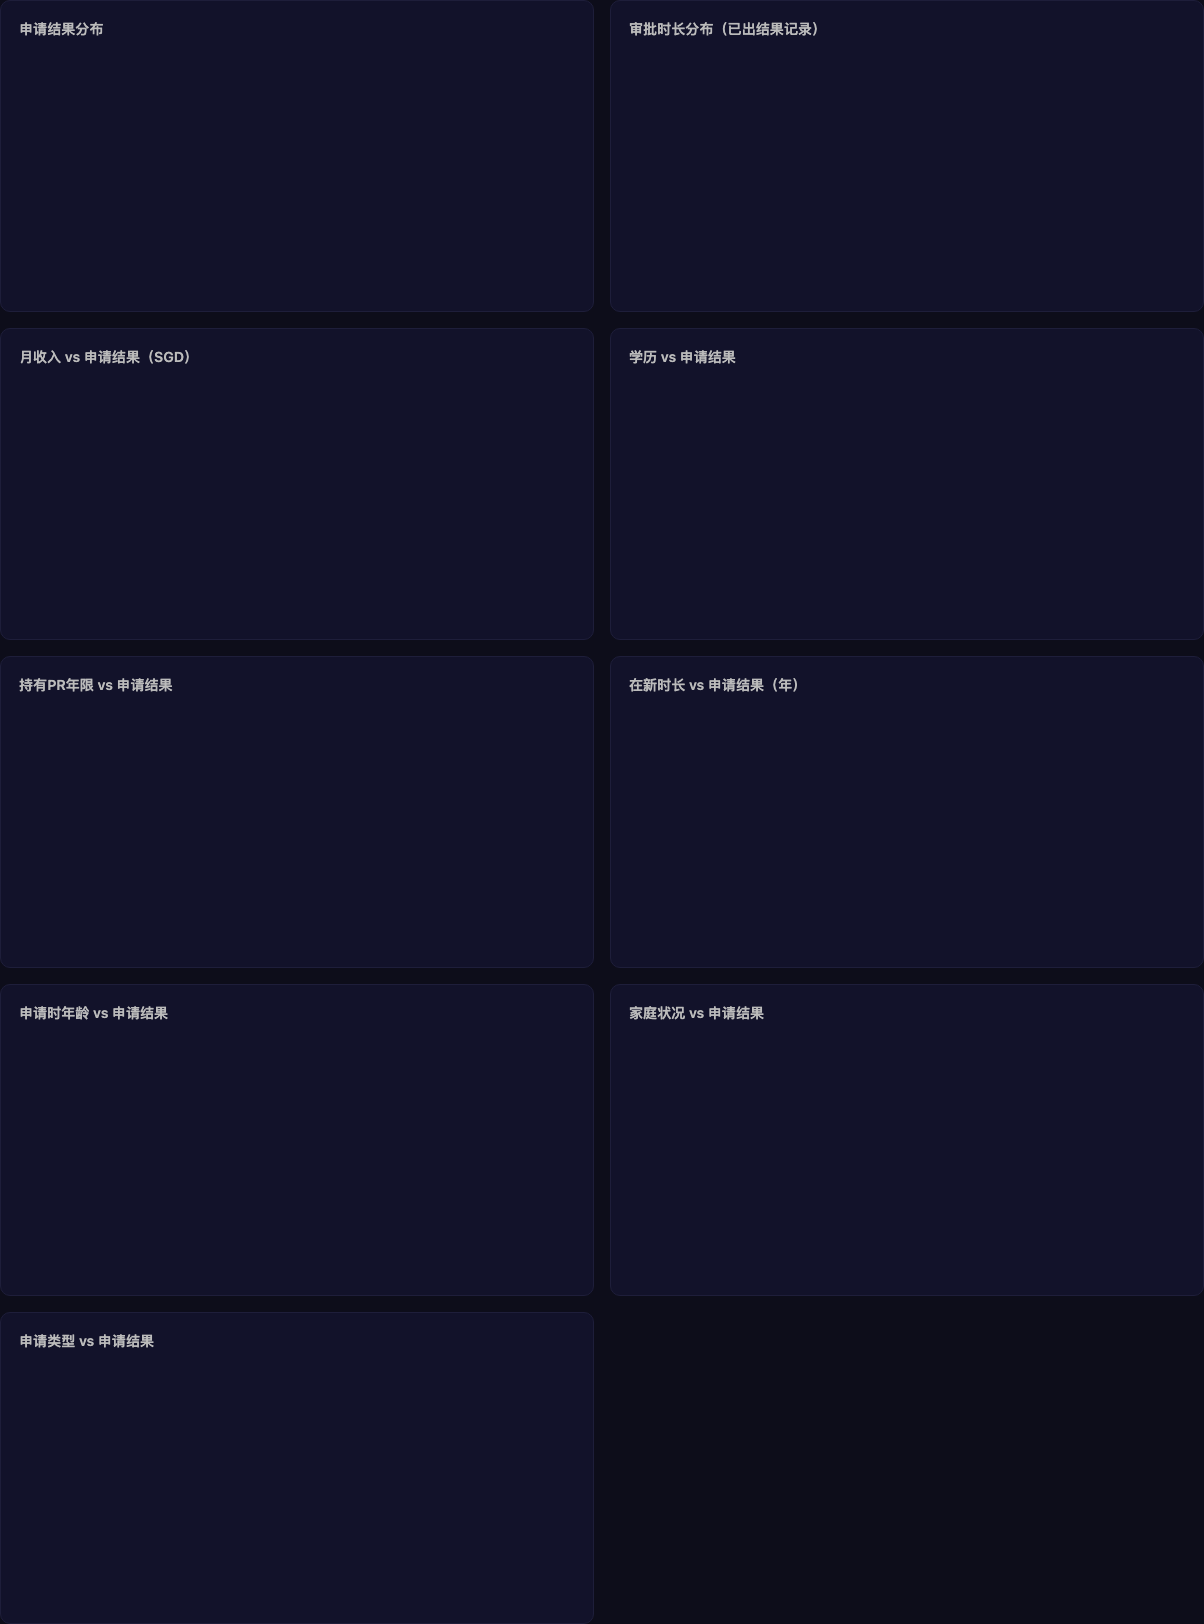
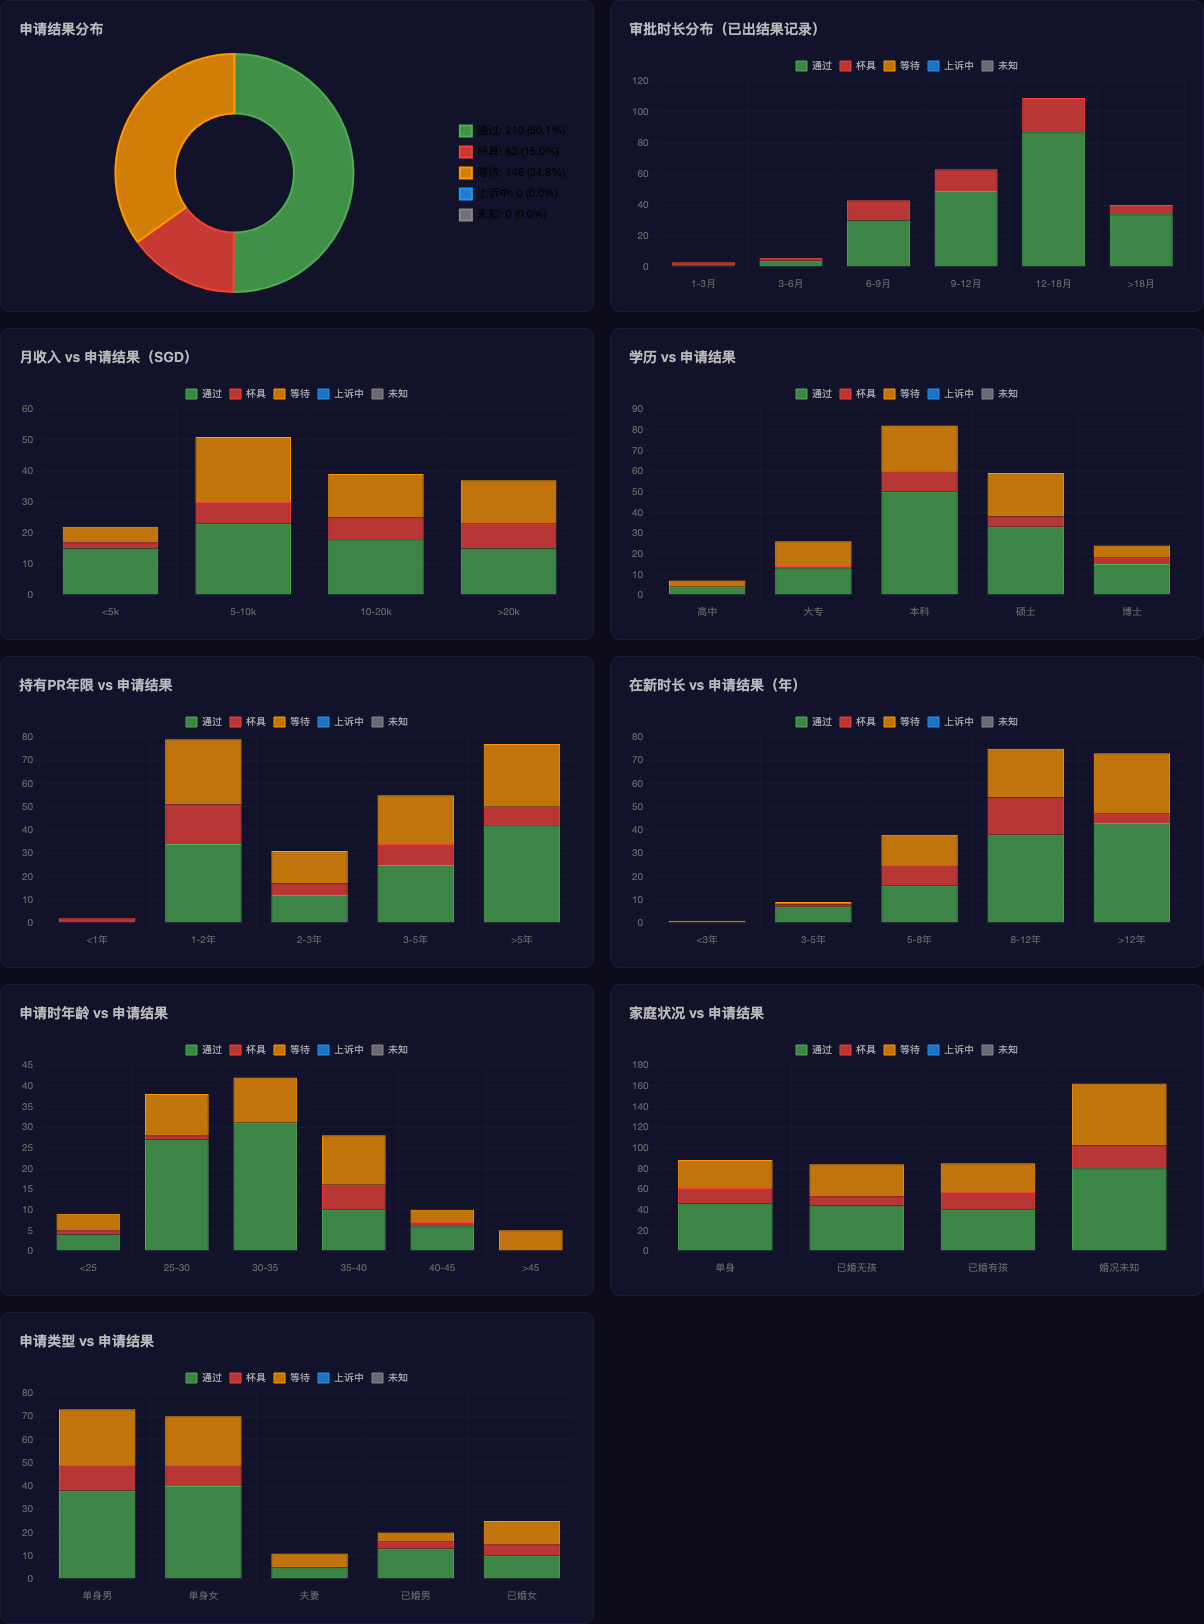
chore: improve screenshot script with better wait times and canvas detection

diff --git a/.github/scripts/take_screenshots.js b/.github/scripts/take_screenshots.js
@@ -25,15 +25,22 @@ async function takeScreenshots() {
       timeout: 60000
     });
 
-    // 等待主要内容加载
-    await page.waitForTimeout(3000);
+    // 等待主要内容加载和数据渲染
+    await page.waitForTimeout(5000);
+
+    // 等待 canvas 元素出现（Chart.js 使用 canvas 渲染图表）
+    try {
+      await page.waitForSelector('canvas', { timeout: 15000 });
+    } catch (e) {
+      console.warn('⚠  Canvas elements not found, continuing anyway...');
+    }
 
     // 截图 1: 数据仪表盘 (数据可视化)
     console.log('📷 Capturing visualization dashboard...');
     try {
       // 确保在 dashboard tab
       await page.click('button[data-view="dashboard"]');
-      await page.waitForTimeout(2000);
+      await page.waitForTimeout(3000);
 
       // 截图图表部分（不包含表格）
       const chartElement = await page.$('.charts-grid');
@@ -52,10 +59,11 @@ async function takeScreenshots() {
     console.log('📷 Capturing predictor...');
     try {
       await page.click('button[data-view="predict"]');
-      await page.waitForTimeout(2000);
+      await page.waitForTimeout(3000);
 
       // 等待预测表单加载
-      await page.waitForSelector('.prediction-form, textarea', { timeout: 10000 });
+      await page.waitForSelector('.prediction-form, textarea', { timeout: 15000 });
+      await page.waitForTimeout(2000);
       await page.screenshot({ path: path.join(imagesDir, 'predictor.png') });
       console.log('✅ predictor.png saved');
     } catch (e) {
@@ -66,7 +74,7 @@ async function takeScreenshots() {
     console.log('📷 Capturing data table...');
     try {
       await page.click('button[data-view="dashboard"]');
-      await page.waitForTimeout(1000);
+      await page.waitForTimeout(3000);
 
       // 滚动到表格部分
       await page.evaluate(() => {
@@ -75,7 +83,7 @@ async function takeScreenshots() {
           tableSection.scrollIntoView({ behavior: 'auto' });
         }
       });
-      await page.waitForTimeout(2000);
+      await page.waitForTimeout(3000);
 
       // 截图表格部分
       const tableElement = await page.$('.table-section');
